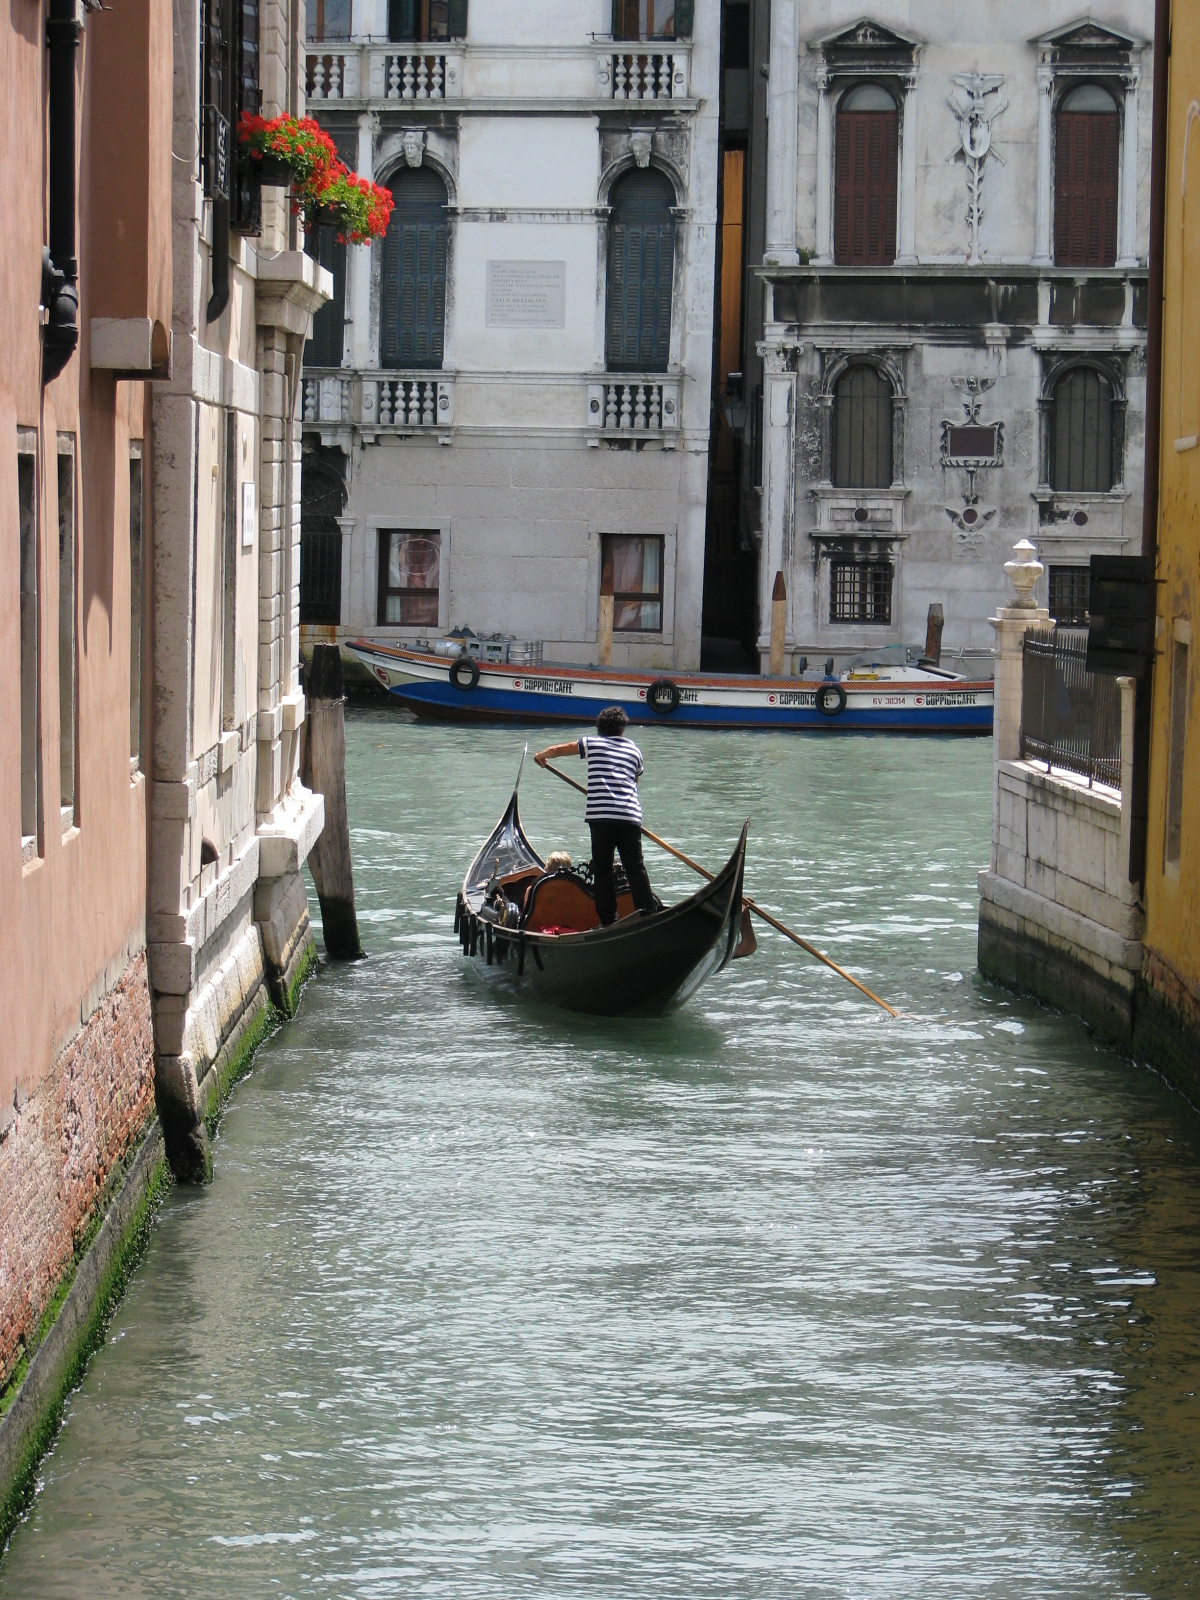
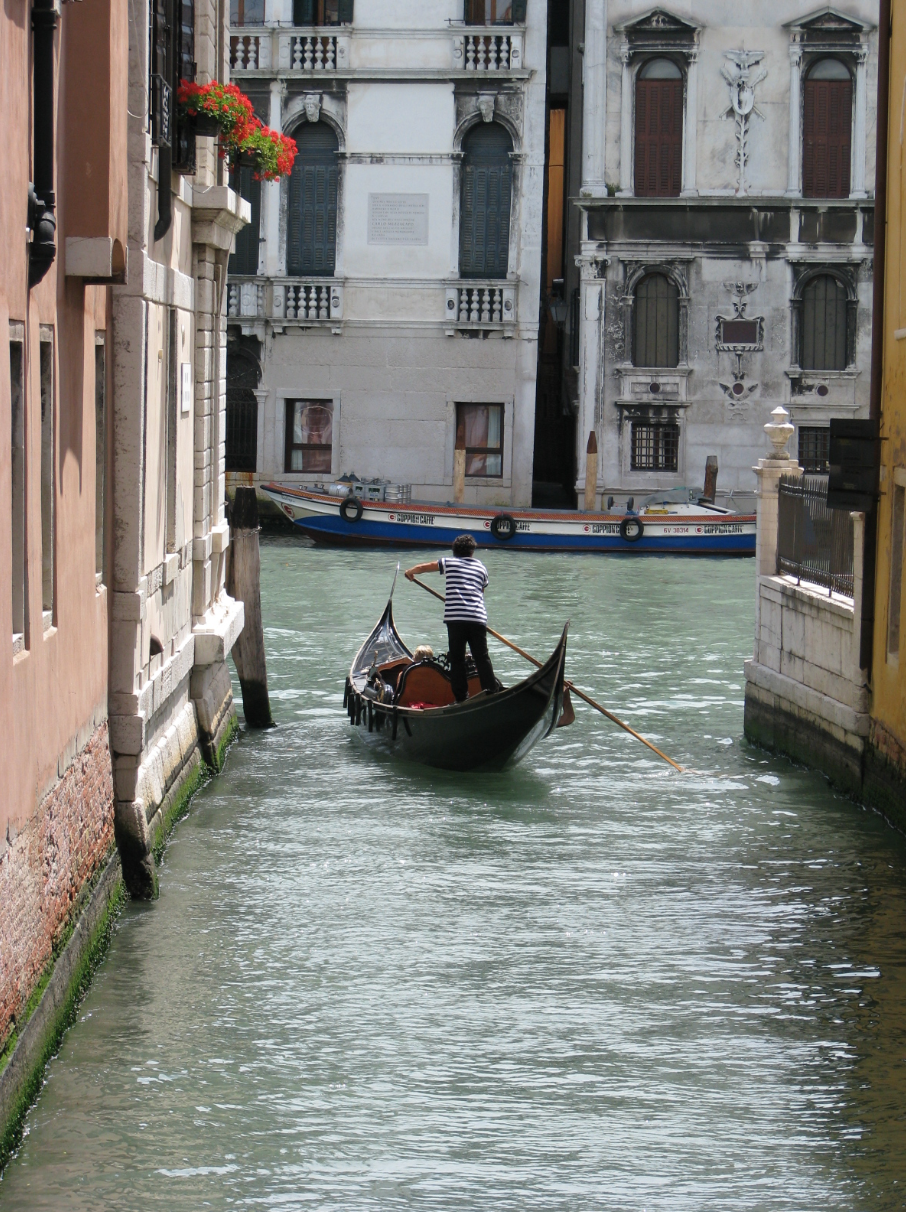
img changes to lowres and img id not needed

diff --git a/index.html b/index.html
@@ -74,7 +74,7 @@
                   <img src="img/museo.jpg" alt="museo" class="responsive-img z-depth-3">
                 </div>
                 <div class="row padding">
-                  <img src="img/estatua.jpg" alt="liberty statue" class="responsive-img z-depth-3" id="estatua">
+                  <img src="img/estatua.jpg" alt="liberty statue" class="responsive-img z-depth-3">
                 </div>
               </div>
               <div class="col s12 m4">
@@ -82,7 +82,7 @@
                   <img src="img/caribe.jpg" alt="caribe" class="responsive-img z-depth-3">
                 </div>
                 <div class="row padding">
-                  <img src="img/hidalgo.jpg" alt="hidalgo" class="responsive-img z-depth-3" id="hidalgo">
+                  <img src="img/hidalgo.jpg" alt="hidalgo" class="responsive-img z-depth-3">
                 </div>
                 <div class="row padding">
                   <img src="img/italia.jpg" alt="italia" class="responsive-img z-depth-3">

diff --git a/css/estilos.css b/css/estilos.css
@@ -38,14 +38,9 @@ h4 {
   margin-top: 20px;
 }
 .padding {
-  padding: 5px;
-}
-
-#estatua {
-  transform: rotate(90deg);
-}
-#hidalgo {
-  transform: rotate(-90deg);
+  padding-left: 5px;
+  padding-right: 5px;
+  margin-bottom: 0px;
 }
 
 #contenido2 {
